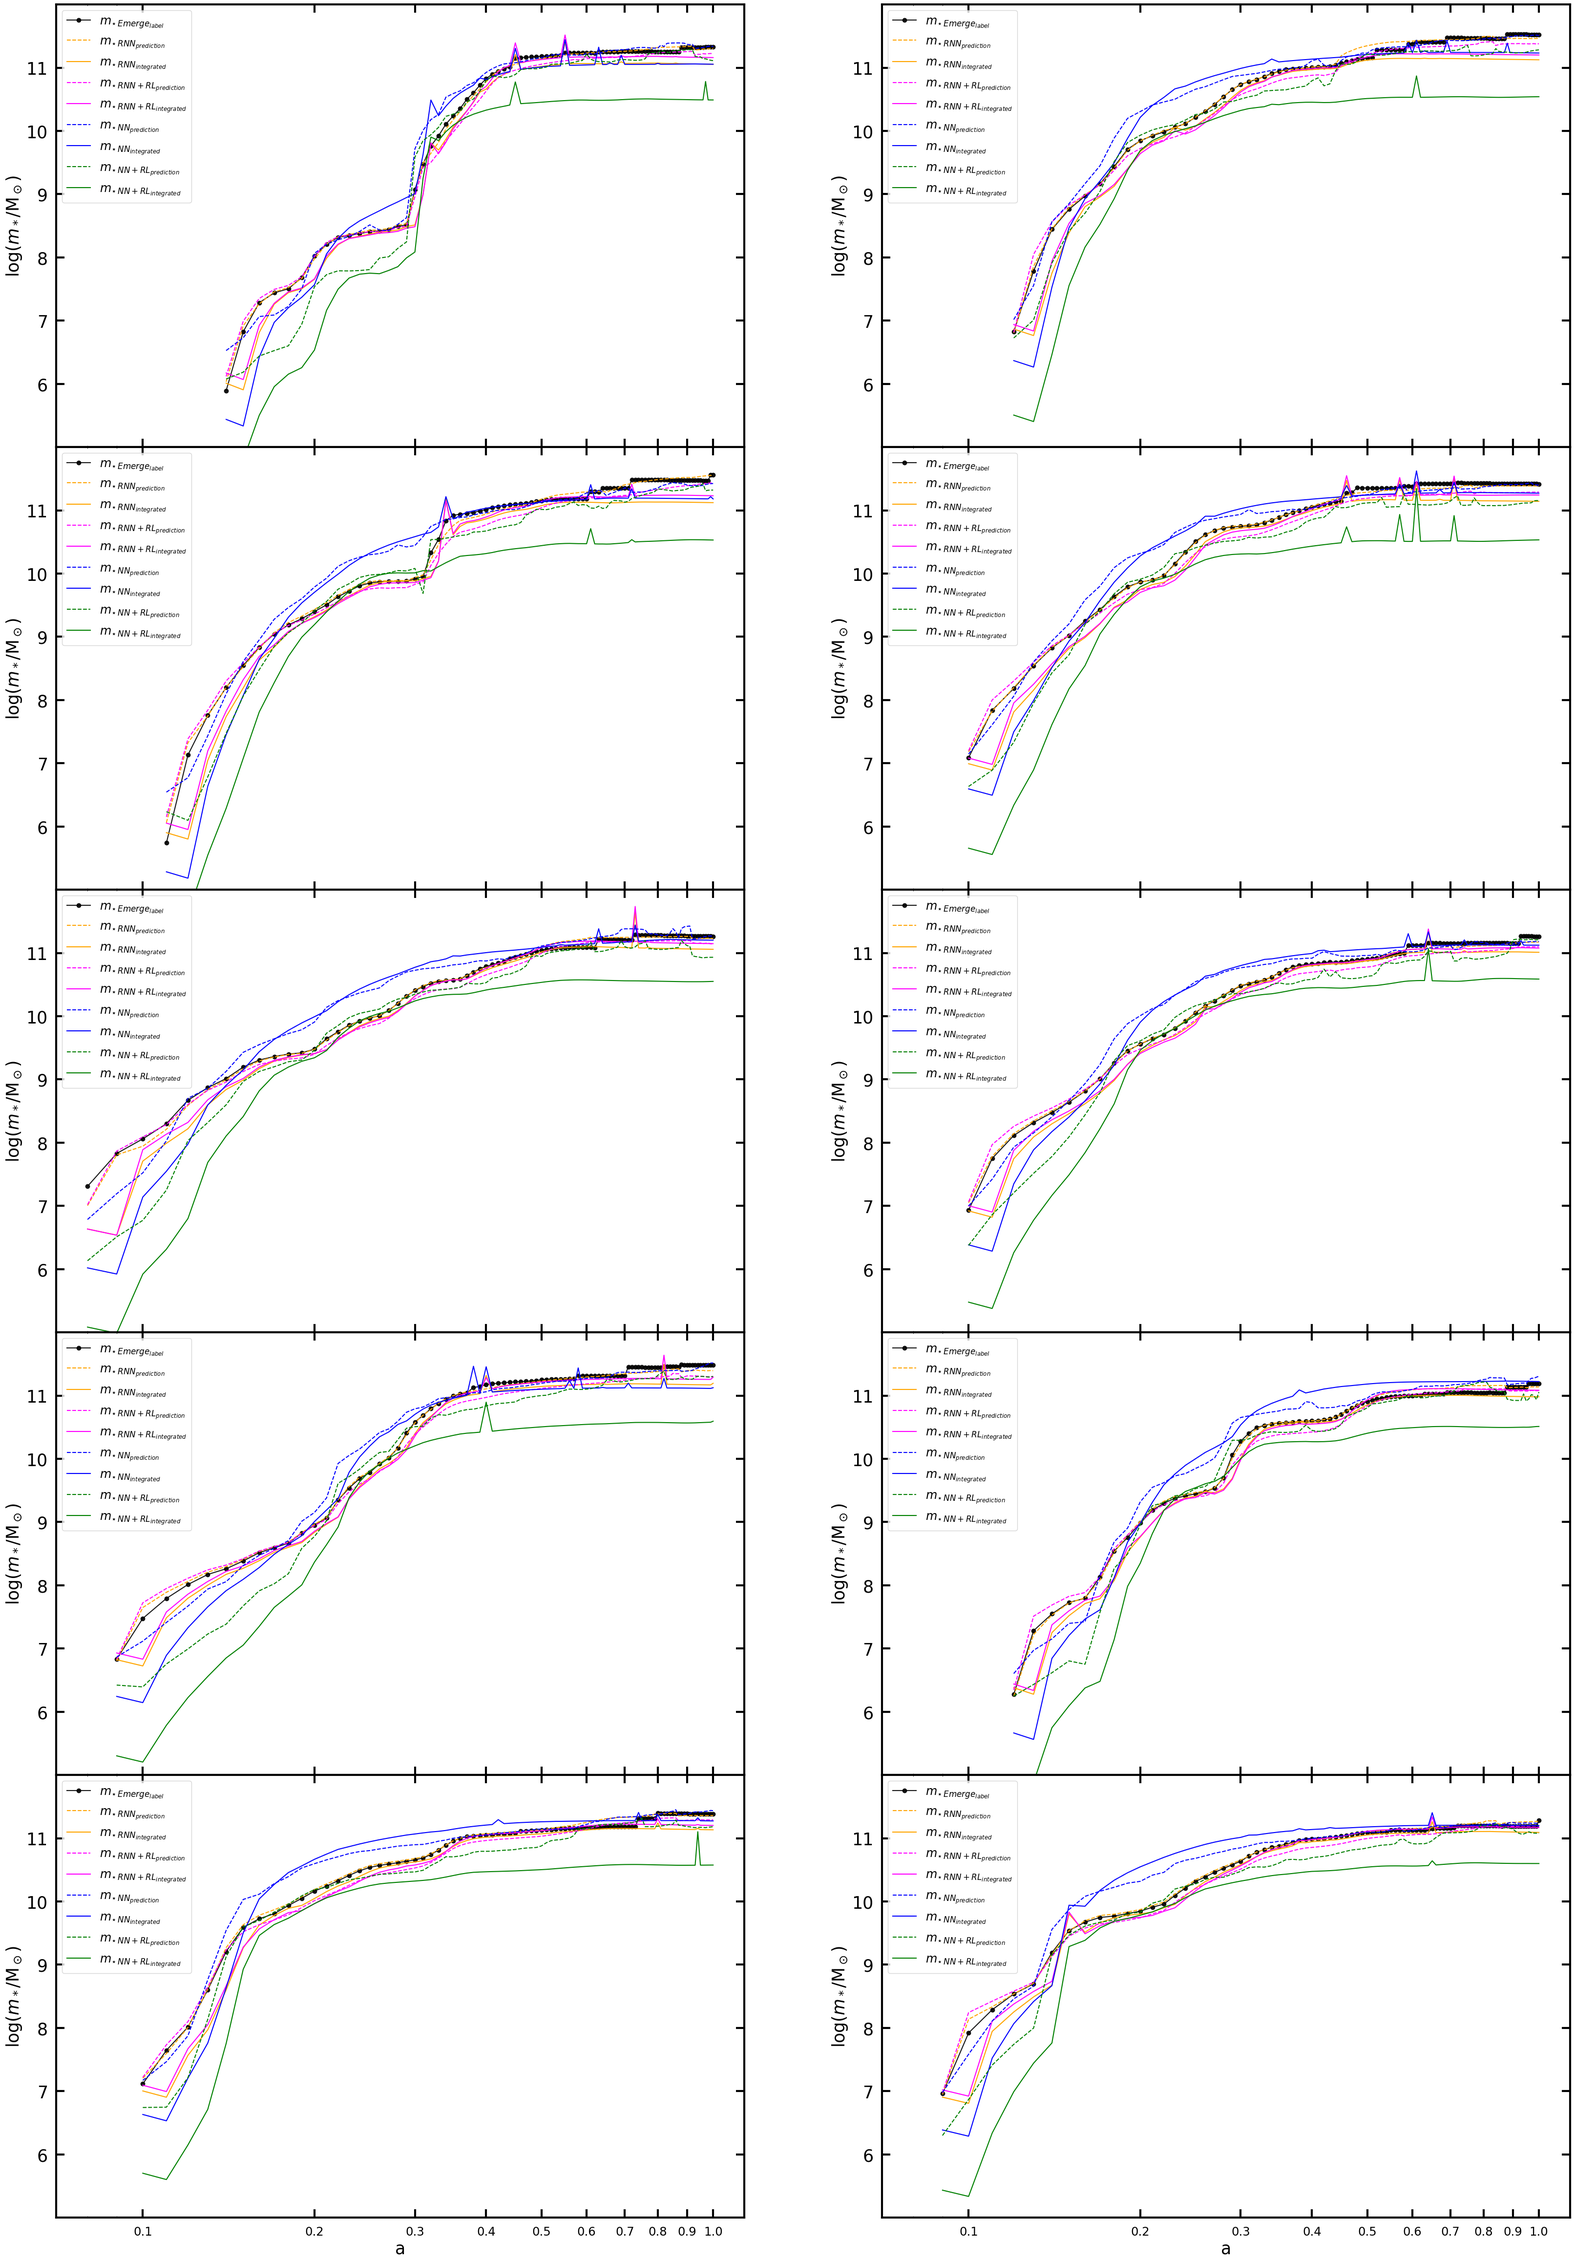
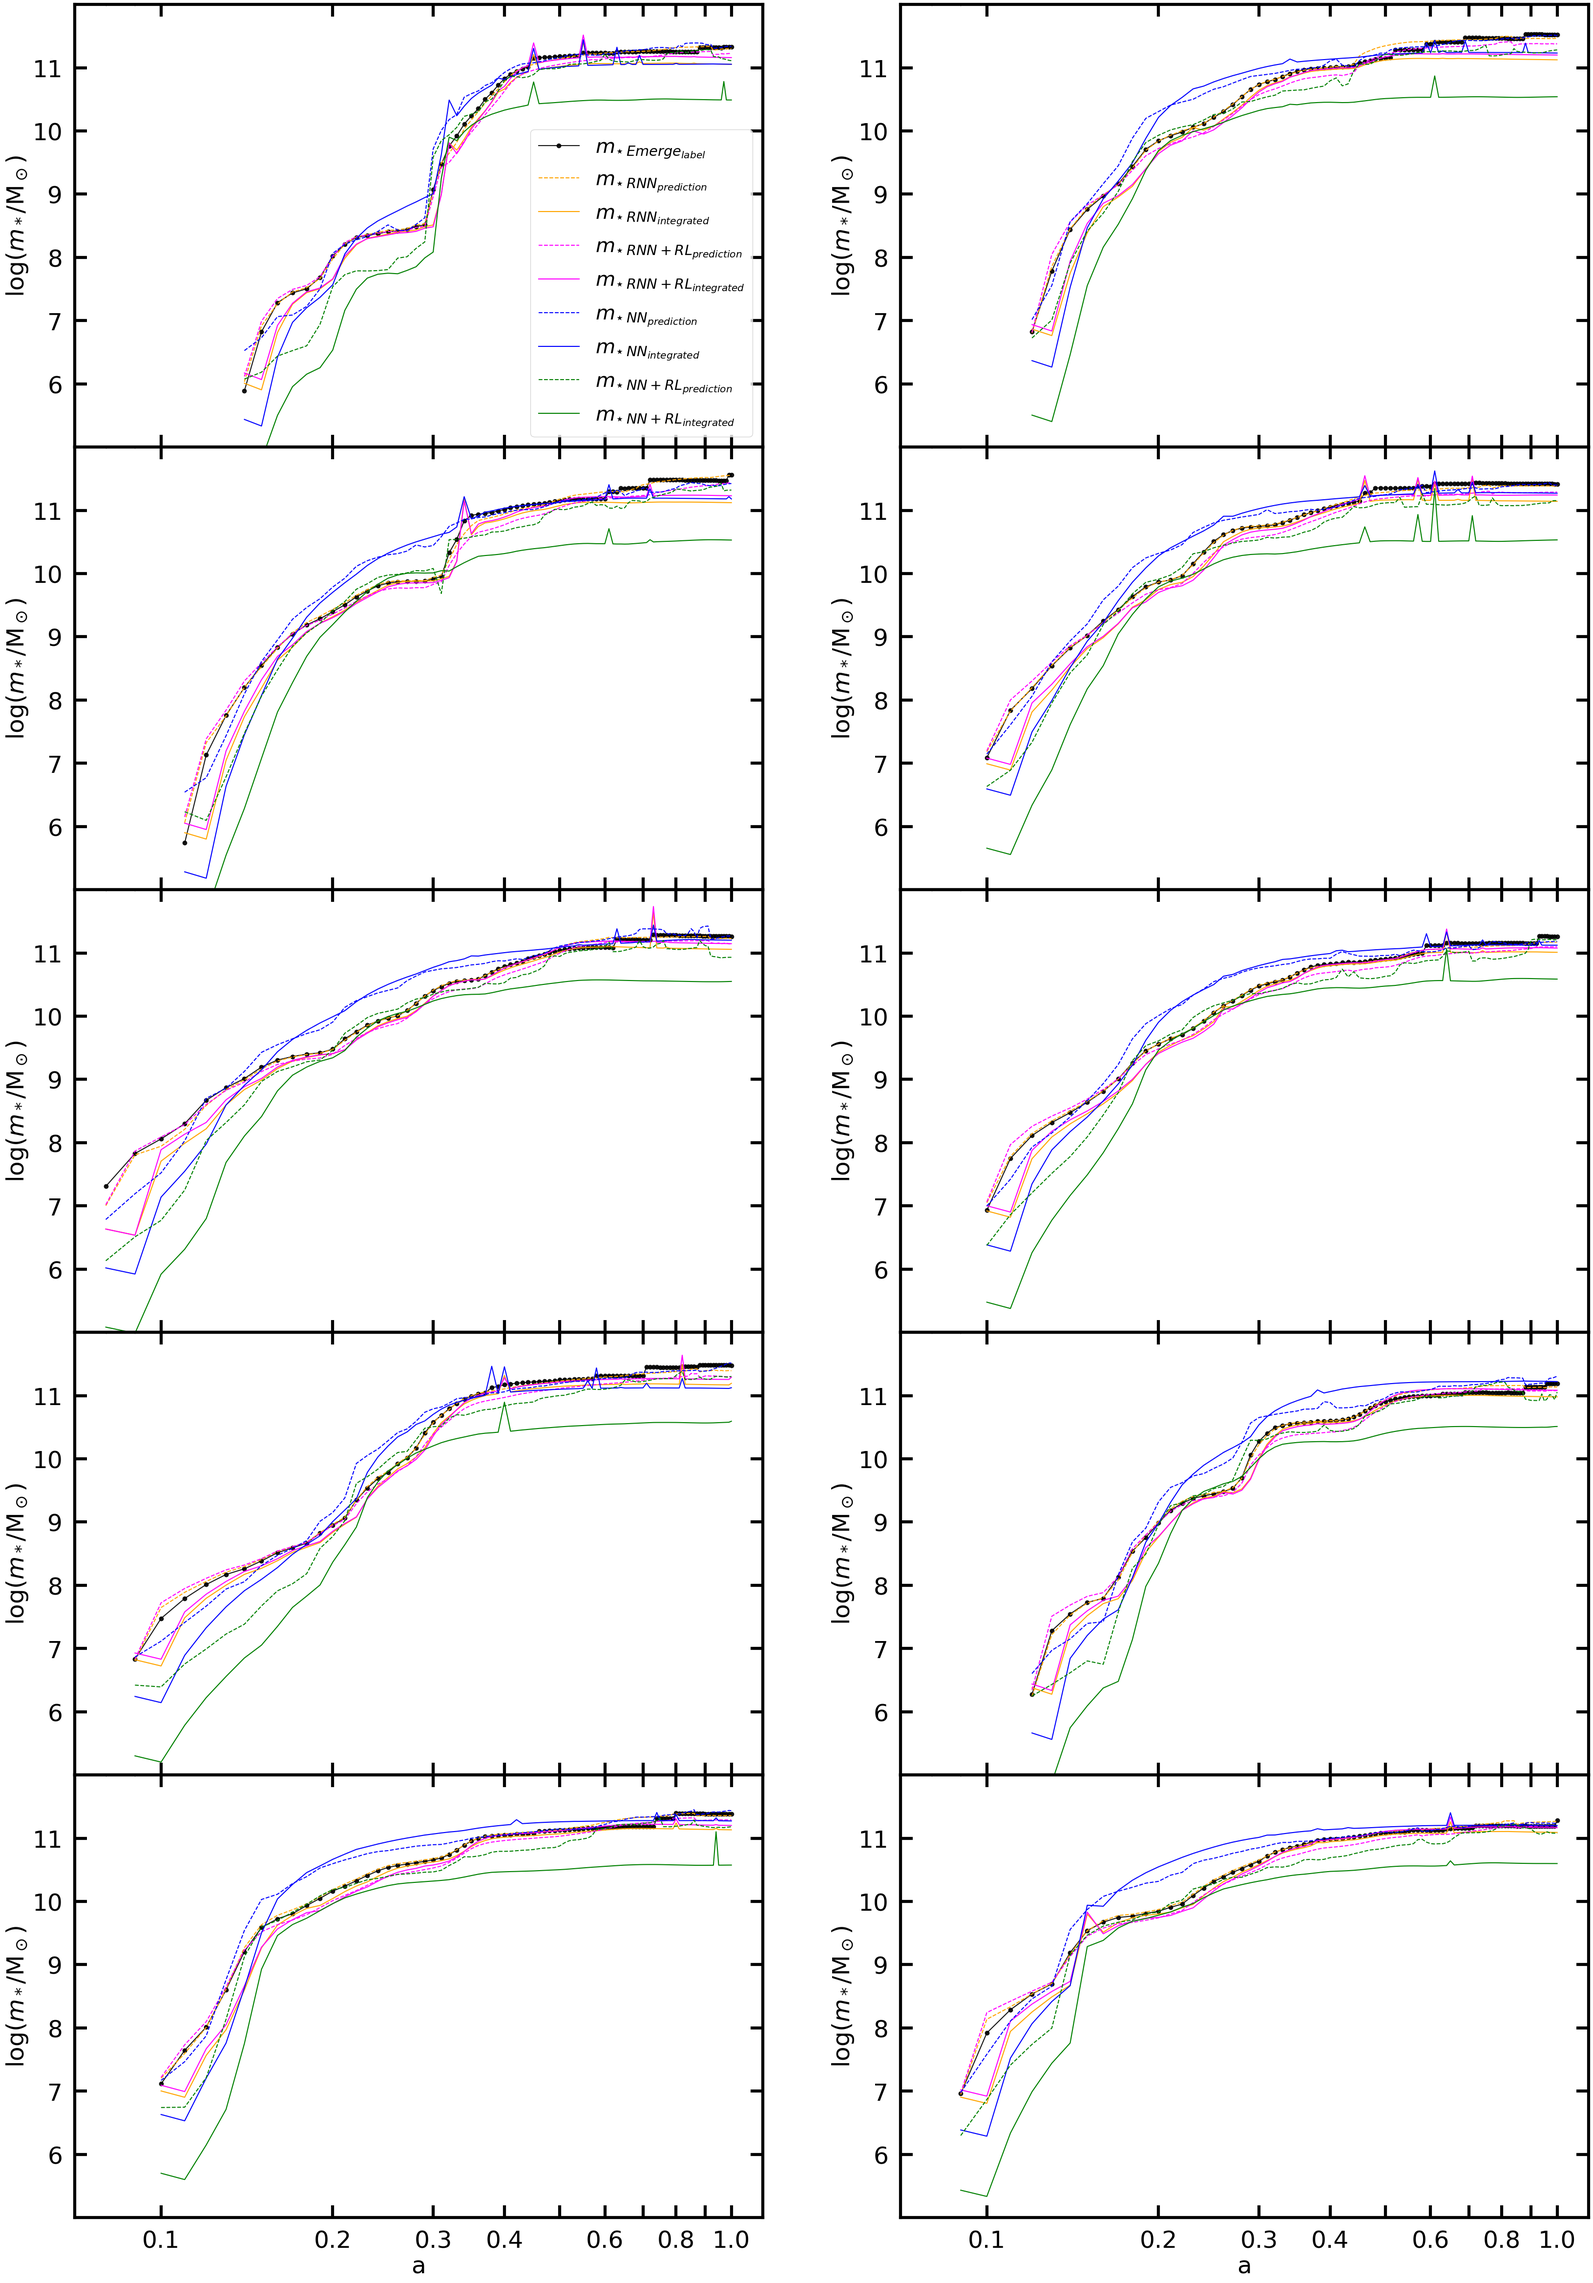
updated plotting function / updated sequence graphs

diff --git a/plotting.py b/plotting.py
@@ -1875,14 +1875,14 @@ def compare_chi2(chi2_em, chi2_mod, lw=4, fs=15):
     plt.savefig('Compare_Chi2.png',dpi=100, bbox_inches = 'tight',
     pad_inches = 0.1)
     plt.show()
-    
-def plot_main_branches(df_RNN, df_RNN_RL, df_NN, df_NN_RL, fs = 25, lw=3,file=None):
+
+def plot_main_branches(df_RNN, df_RNN_RL, df_NN, df_NN_RL, fs = 35, lw=4.5,file=None):
     fig, axs = plt.subplots(5, 2, figsize=(40,60),gridspec_kw={'hspace': 0, 'wspace': 0.2}, sharex='all')
     eins = [0,0,1,0,2,0,3,0,4,0]
     zwei = [0,0,0,1,0,2,0,3,0,4]
     xticks = [0.1,0.2,0.3,0.4,0.5,0.6,0.7,0.8,0.9,1.0]
     yticks = [6,7,8,9,10,11]
-    
+
 
     for counter, i in enumerate(range(len(df_RNN))):
         if i & 1 == 0:
@@ -1901,11 +1901,13 @@ def plot_main_branches(df_RNN, df_RNN_RL, df_NN, df_NN_RL, fs = 25, lw=3,file=No
             axs[eins[counter], 0].tick_params(axis='both', direction='in', which = 'both', bottom=True, top=True, left=True, right=True, labelsize=fs)
             axs[eins[counter], 0].tick_params(width=lw*1.0, length=4*lw, which='major', direction='in', pad=fs/2)
             axs[eins[counter], 0].set_xticks(xticks)
-            axs[eins[counter], 0].set_xticklabels([0.1,0.2,0.3,0.4,0.5,0.6,0.7,0.8,0.9,1.0],fontsize=fs*0.7)
+            axs[eins[counter], 0].set_xticklabels([0.1,0.2,0.3,0.4,_,0.6,_,0.8,_,1.0],fontsize=fs)
             #axs[eins[counter], 0].set_xlim(0.01,1.0)
             axs[eins[counter], 0].set_yticks(yticks)
             axs[eins[counter], 0].set_ylim(5,12)
-            axs[eins[counter], 0].legend(loc='best', fontsize='xx-large')
+            axs[eins[counter], 0].legend(loc='best', fontsize=fs*0.85)
+            if counter != 0:
+                axs[eins[counter], 0].get_legend().remove()
             for axis in ['top','bottom','left','right']:
                 axs[eins[counter], 0].spines[axis].set_linewidth(lw)
         else:
@@ -1924,18 +1926,20 @@ def plot_main_branches(df_RNN, df_RNN_RL, df_NN, df_NN_RL, fs = 25, lw=3,file=No
             axs[zwei[counter], 1].tick_params(axis='both', direction='in', which = 'both', bottom=True, top=True, left=True, right=True, labelsize=fs)
             axs[zwei[counter], 1].tick_params(width=lw*1.0, length=4*lw, which='major', direction='in', pad=fs/2)
             axs[zwei[counter], 1].set_xticks(xticks)
-            axs[zwei[counter], 1].set_xticklabels([0.1,0.2,0.3,0.4,0.5,0.6,0.7,0.8,0.9,1.0],fontsize=fs*0.7)
+            axs[zwei[counter], 1].set_xticklabels([0.1,0.2,0.3,0.4,_,0.6,_,0.8,_,1.0],fontsize=fs)
             #axs[zwei[counter], 1].set_xlim(0.01,1.0)
             axs[zwei[counter], 1].set_yticks(yticks)
             axs[zwei[counter], 1].set_ylim(5,12)
-            axs[zwei[counter], 1].legend(loc='best', fontsize='xx-large')
+            axs[zwei[counter], 1].legend(loc='best', fontsize=fs)
+            if counter != 0:
+                axs[zwei[counter], 1].get_legend().remove()
             for axis in ['top','bottom','left','right']:
                 axs[zwei[counter], 1].spines[axis].set_linewidth(lw)
-            
+
     #fig.suptitle('Comparison of RNN and NN results for several main branches', fontsize=40, y =0.92)
     if file is not None:
-            plt.savefig(file, dpi=100, bbox_inches = 'tight',
-    pad_inches = 0.1)
+        plt.savefig(file, dpi=100, bbox_inches = 'tight',
+                    pad_inches = 0.1)
     plt.show()
 
 def plot_baryon_efficiency(df, fs = 25, lw=3, file=None):
@@ -2053,35 +2057,6 @@ def plot_baryon_efficiency_2(df, compare_list, fs = 25, lw=3, file=None):
 
     plt.show()
 
-def plot_main_branches(df_RNN, df_NN, fs = 15, lw=3,file=None):
-    fig, axs = plt.subplots(len(df_RNN), 2, figsize=(15,20),gridspec_kw={'hspace': 0, 'wspace': 0.2})
-    mstar  = np.linspace(5.0,12.0,1000)
-    j=-1
-    for i in range(len(df_RNN)):
-        axs[i, 0].scatter(df_RNN[i]['mstar_integrated'],df_RNN[i]['Stellar_mass'], color='b',  label='RNN')
-        # c=df_RNN[i]['Scale'],cmap='winter',
-        axs[i, 0].scatter(df_NN[i]['mstar_integrated'],df_NN[i]['Stellar_mass'], color='r', label='NN')
-        # c=df_NN[i]['Scale'],cmap='autumn'
-        axs[i, 0].set_xlabel('$\ (m_*)_\mathrm{integrated}$', fontsize = fs)
-        axs[i, 0].set_ylabel('$\ (m_*)_\mathrm{label}$', fontsize = fs)
-        axs[i, 0].plot(mstar,mstar,'black')
-        if i == 0:
-            axs[i, 0].legend()
-        axs[j+1, 1].scatter(df_RNN[i]['mstar_integrated'],df_RNN[i]['mstar_pred'], color='b', label='RNN')
-        axs[j+1, 1].scatter(df_NN[i]['mstar_integrated'],df_NN[i]['mstar_pred'], color='r', label='NN')
-        axs[j+1, 1].set_xlabel('$\ (m_*)_\mathrm{integrated}$', fontsize = fs)
-        axs[j+1, 1].set_ylabel('$\ (m_*)_\mathrm{prediction}$', fontsize = fs)
-        axs[j+1, 1].plot(mstar,mstar,'black')
-        if i == 0:
-            axs[j+1, 1].legend() 
-        j += 1
-        
-    fig.suptitle('Comparison of RNN and NN results several for main branches', fontsize=20, y =0.92)
-
-    if file is not None:
-            plt.savefig(file)
-    plt.show()
-    
 def plot_main_sequence_panel_RNN_RL(
     fig,
     X,
